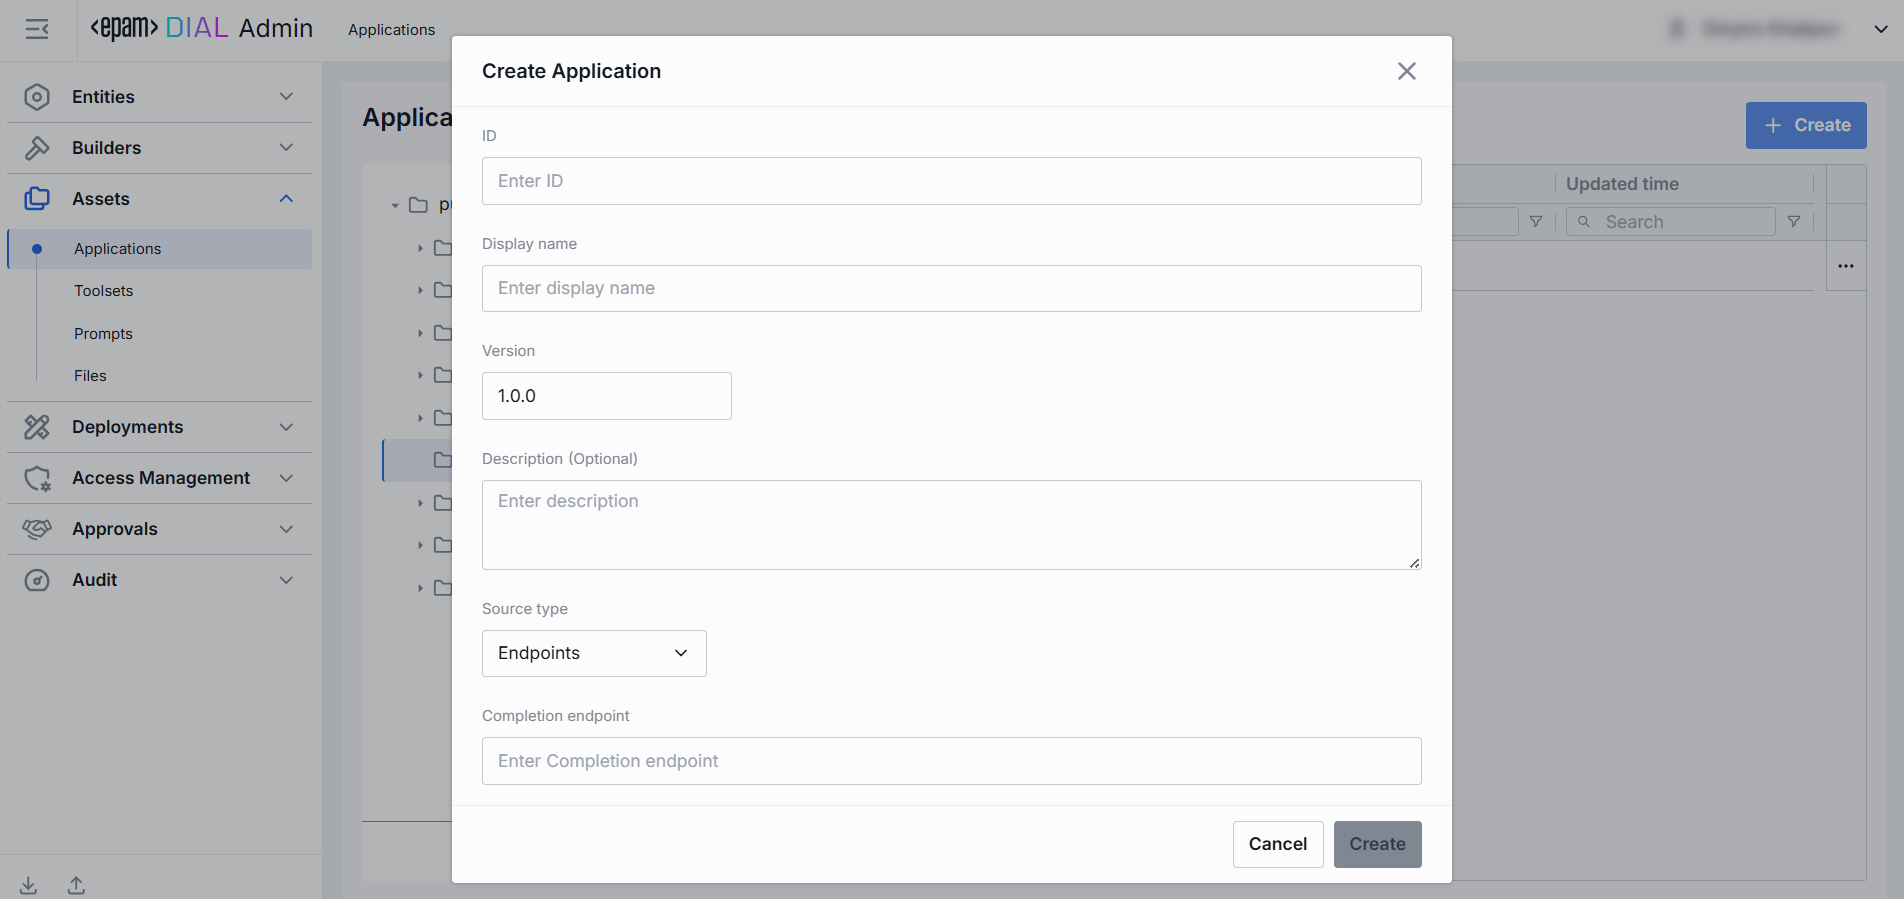
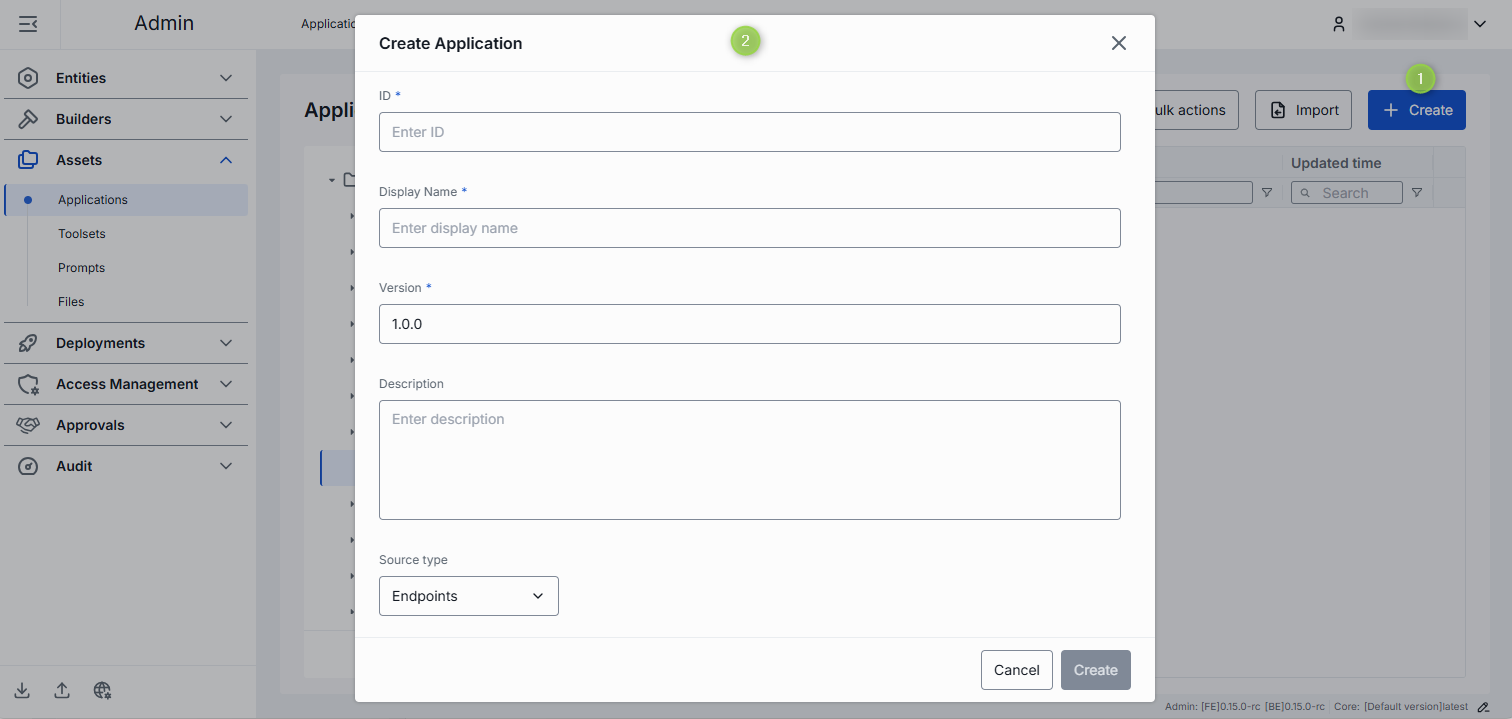
review assets

diff --git a/docs/tutorials/3.admin/assets-applications.md b/docs/tutorials/3.admin/assets-applications.md
@@ -2,7 +2,7 @@
 
 ## Introduction
 
-In DIAL, applications created by users (either using DIAL Core API or UI) are stored in a private folder of a dedicated user in the file storage and are not accessible to anyone but the application author (owner). To enable access for other users, based on explicitly defined access rules, applications can be published or manually placed in the Public folder by administrators.
+In DIAL, applications created by users (either using DIAL Core API or UI) are stored in a private folder of a dedicated user in the DIAL file storage and are not accessible to anyone but the application author (owner). To enable access for other users, application owners can publish applications or DIAL administrators can manually add applications to the Public folder, where all published resources are stored.
 
 > Refer to [Entities/Applications](/docs/tutorials/3.admin/entities-applications.md) to learn about applications in DIAL.
 
@@ -19,29 +19,31 @@ The Assets/Applications screen displays all applications located in the Public f
 
 Objects in the [Public folder](/docs/platform/3.core/2.access-control-intro.md) are arranged hierarchically, similar to a file system. 
 
-- **Root folder**: Pubic is a root folder with sub-folders. It is visible to all authorized users. If a sub-folder is not specified for the new object, it is placed in the root folder by default.
+- **Root folder**: Pubic is a root folder with sub-folders. It is visible to all authorized users. If a sub-folder is not specified for the new object being published, it is placed in the root folder by default.
 - **Sub-folders**: Objects can be placed in sub-folders for logical organization purposes - one object per sub-folder is recommended. 
 
 > **Note**, that access rules can be applied to sub-folders (manually or in publication request). You can view and manage access rules in [Folders Storage](/docs/tutorials/3.admin/access-management-folders-storage.md). The effective authorization rule for an object in a sub-folder includes restrictions applied to all parent sub-folders up to the root folder. Refer to [Tutorials](/docs/tutorials/1.developers/1.work-with-resources/0.work-with-publications.md#effective-rules) to learn about affective rules for folders.
 
 | Available Actions | Description |
 |-------------------|-------------|
-| **Create folder + import objects** | Hover over any folder to display the **+** icon. It allows importing objects into new child or sibling folders. Same flow as [Import](#import), but requires providing a new folder name. **Note** that new folders can be added only via this method or along with the publication request if a new folder is defined in it. |
+| **Create sub-folder + import objects** | Hover over any folder to display the **+** icon. It allows importing objects into new child or sibling sub-folders. Same flow as [Import](#import), but requires providing a new folder name. **Note** that new sub-folders can be added only via this method or along with the publication request if a new folder is defined in it. |
 | **Actions** | Hover over any folder to view a context menu icon with actions you can perform in relation to the selected folder.<br />**Note**, that actions performed to a folder with apps that include attached files will be applied to a related folder in [Assets/Files](/docs/tutorials/3.admin/assets-files.md). <br /> - **Rename**: Use to rename the selected folder. <br />- **Move to**: Use to select a target location in the hierarchy to move the selected folder.<br />- **Manage permissions**: Redirects to [Folder Storage](/docs/tutorials/3.admin/access-management-folders-storage.md) to manage access to the folder.<br />- **Delete**: Use to delete the folder with objects inside it.|
 
 ![ ](img/folder-actions.png)
 
 ##### Applications grid
 
-Click any folder to display applications in the applications grid.
+Click any folder to display its content in the applications grid.
 
 | Column | Description |
 |--------|-------------|
 | **ID** | Unique identifier of the application. |
 | **Version** | Published version of the application. |
 | **Author** | Username or system ID associated with the user who created or last updated this application. |
-| **Updated time** | Timestamp of the last modification of the application. Use to track changes. |
-| **Actions** | Actions you can perform on the selected application: <br /> - **Open in new tab**: Opens a new tab with application's properties, features and parameters. <br /> - **Move to another folder**: Use to select the target folder in the hierarchy to move the application.<br />- **Delete**: Use to delete the application. Alternatively you can use **Bulk Actions** in the header to remove multiple applications. |
+| **Updated time** | Timestamp of the last modification of the application. |
+| **Actions** | Actions you can perform on the selected application:<br />- **Open in new tab**: Opens the application's properties, features, and parameters in a new tab.<br />- **Move to another folder**: Select a target folder in the hierarchy to move the application.<br />- **Delete**: Remove the application. You can also use **Bulk Actions** in the toolbar to delete multiple applications at once.<br />- **Duplicate**: Create a copy of the application in one of two ways:<br />**New version**: Creates another version of the selected application. You can also quickly add a new version on the [Configuration](#configuration) screen by clicking **Create** in the **Version** dropdown.<br />**New application**: Clones the selected application as a new one. |
+
+![ ](img/assets-apps-actions.png)
 
 ## Export
 
@@ -54,10 +56,10 @@ Use **Bulk Actions** in the toolbar to download selected applications. This is u
 1. Click **Bulk Actions** button in the toolbar.
 2. Select applications by checking the boxes in each row. You can also select the version you want to export. 
 3. Click **Export** in the bottom to launch the export modal. 
-4. In the modal window select the export format: Archive or JSON.
+4. In the modal window select the export format: ZIP archive or JSON file.
 5. Click **Export** to generate export file and start downloading.
 
-![ ](img/apps_export2.png)
+    ![ ](img/apps_export2.png)
 
 ## Import
 
@@ -82,11 +84,11 @@ Use **Import** in the toolbar to upload new or update existing applications from
 
 On the main screen you can manually add new DIAL application to the public folder.
 
-> Refer to [DIAL-Native Applications](/docs/tutorials/1.developers/4.apps-development/3.enable-app.md#dial-native-applications) to learn more about native applications in DIAL.
+> **Tip**: You can quickly add new applications by duplicating existing ones. Use the **Duplicate** action in the application's context menu.
 
-Follow these steps to add a new application: 
+Follow these steps to add a new application to the Public folder: 
 
-1. Select a folder where you want to add a new application and click **+ Create** to invoke the **Create Application** modal.
+1. Select a folder where you want to add a new application and click **+ Create** in the header to invoke the **Create Application** modal.
 2. Define application's parameters
 
     | Field | Required | Description |
@@ -99,20 +101,22 @@ Follow these steps to add a new application:
     | **Completion endpoint** | Conditional | The application's chat completion endpoint that will be used by DIAL Core. Required if Source Type is **Endpoints**. |
     | **Application runner** | Conditional | Select one of the [available application runners](/docs/tutorials/3.admin/builders-application-runners.md). Required if Source Type is **Application runner**. |
 
-3. Once all required fields are filled click **Create**. The dialog closes and the new [application configuration](#configuration-screen) screen is opened. This entry will appear immediately in the listing under the selected folder once created.
+3. Once all required fields are filled click **Create**. The dialog closes and the new [application configuration](#configuration) screen is opened. This entry will appear immediately in the listing under the selected folder once created.
 
     ![](img/130.png)
 
 ## Delete
 
-There are several ways to delete an application:
+There are several ways to delete an application or a specific version of it:
 
 * Click **Delete** in the toolbar on the Configuration screen to permanently remove the selected application from your DIAL instance.
-* Use the Delete option in the application context menu
+* Use the Delete option in the application context menu.
 * Delete the related folder where the application is located.
-* Use **Bulk Actions** on the main screen to remove more than one application.
+* Use **Bulk Actions** on the main screen to delete more than one application.
 
-## Configuration Screen
+![](img/assets-delete-app.png)
+
+## Configuration
 
 Click any application to open a screen with information about the selected application and its configuration details.
 
@@ -122,37 +126,36 @@ In the Properties tab, you can see all and define selected application's basic p
 
 ![](img/123.png)
 
-##### Available Actions
+##### Available actions
 
 You can find the following action buttons in the configuration screen header:
 
 | Action | Description |
 |--------|-------------|
-| **Version**  | Version of the application. Can be selected from the dropdown to display information for different versions.           |
+| **Version**  | Version of the application. Can be selected from the dropdown to display properties for different versions of application. <br /> In the dropdown, click **Create** to add a new version of the application. |
 | **Delete** | Use to delete the selected application. |
 
-##### Fields Description
+##### Fields description
 
 | Field | Description |
 |-------|-------------|
-| **ID** | Unique identifier of the application. |
-| **Author** | Username or system ID associated with the user who created or last updated this application. |
-| **Creation Time** | Timestamp of when the application was created. |
-| **Updated Time** | Date and time when the app's configuration was last updated. |
-| **Folder Storage** | Path to the application's location in the hierarchy of folders. It allows you to move the application between folders.|
+| **ID** | Unique identifier of the application. It is read-only but includes a copy-to-clipboard button for easy reference. |
+| **Updated Time** | Timestamp of the last updated. |
+| **Creation Time** | Application creation timestamp. |
+| **Folder Storage** | Path to the application's location in the hierarchy of folders. Click to navigate to [Folders Storage](/docs/tutorials/3.admin/access-management-folders-storage.md).|
 | **Status** | Current status of the application:<br />**Valid**: application configuration is compatible with the JSON schema or the related application runner.<br />Only valid entities will be materialized into the DIAL Core configuration.<br />**Invalid**: application configuration is incompatible with the JSON schema of the related application runner. |
-| **Display Name** | Name of the application assigned by the author. It is read-only but includes a copy-to-clipboard button for easy reference. |
+| **Display Name** | Name of the application displayed on UI. |
 | **Description** | Free-text summary describing the application (e.g. tooling, supported inputs/outputs, SLAs). |
 | **Icon** | Logo to visually distinguish the app on the UI. Maximum size: 512 MB. Supported types: .jpeg, .jpg, .jpe, .png, .gif, .apng, .webp, .avif, .svg, .svgz, .bmp, .ico. Up to 1 files.|
-| **Topics** | Tags that you can assign to apps (e.g. "finance", "support"). Helps to assign categories for better navigation on UI. |
-| **Folder Storage** | Path to the application's location in the hierarchy of folders. It allows you to move the application between folders.|
+| **Topics** | Topics are semantic labels that you can assign to apps (e.g. "finance", "support") for better navigation on UI. Click to display a list of available topics. <br /> You can add your own custom topics to the list following these rules:<br />- The topic name must not exceed 255 characters.<br />- The topic name must not contain leading or trailing spaces. |
+| **Folder Storage** | Path to the application's location in the hierarchy of folders. Use **Move to** to change the application's location.|
 | **Source Type** | Source type of application.<br />- **Endpoints**: Application with this source type is a standalone application. DIAL Core communicates with such application via the explicitly-provided endpoints.<br />- **Application runner**: Application runners can be seen as application factories, allowing users to create logical instances of apps with different configurations. Application runners are based on JSON schemas, which define structure, properties and endpoints for applications. In [Builders/Application Runners](/docs/tutorials/3.admin/builders-application-runners.md) you can see all the available runners and add new ones.|
-| **Application runner** | [Application Runner](/docs/tutorials/3.admin/builders-application-runners.md) the application is based upon. Enabled and is required if Source Type = Application runner is selected. |
-| **Completion endpoint** | The application's chat completion endpoint that will be used by DIAL Core. Enabled and is required if Source Type = Endpoints is selected. |
-| **Editor URL** | URL of the application's custom builder UI. Application builder allows creating instances of apps using a [UI wizard](/docs/tutorials/0.user-guide.md#application-builder). Enabled if Source Type = Endpoints is selected. |
-| **Viewer URL** | URL of the application's custom UI. A custom UI, if enabled, will override the standard DIAL Chat UI. Enabled if Source Type = Endpoints is selected. |
-| **Attachments** | [Attachment types](/docs/tutorials/1.developers/3.chat/0.chat-objects.md#attachments) (images, files) this app can have: <br />**Available values**:<br /> **None** – attachments are not allowed. <br /> **Use all** – unrestricted types. Optionally specify max number of attachments. <br /> **Custom** – enter specific [MIME types](https://developer.mozilla.org/en-US/docs/Web/HTTP/Basics_of_HTTP/MIME_types/Common_types). Optionally specify max number of attachments. |
-| **Attachments max number** | Maximum number of input attachments. Enabled if attachment types are defined. |
+| **Application runner** | [Application Runner](/docs/tutorials/3.admin/builders-application-runners.md) the application is based upon. <br />**Note**: Enabled and is required if Source Type = Application runner is selected. |
+| **Completion endpoint** | The application's chat completion endpoint that will be used by DIAL Core. <br />**Note**: Enabled and is required if Source Type = Endpoints is selected. |
+| **Editor URL** | URL of the application's custom builder UI. Application builder allows creating instances of apps using a [UI wizard](/docs/tutorials/0.user-guide.md#application-builder).<br />**Note**:  Enabled if Source Type = Endpoints is selected. |
+| **Viewer URL** | URL of the application's custom UI. A custom UI, if enabled, will override the standard DIAL Chat UI.<br />**Note**: Enabled if Source Type = Endpoints is selected. |
+| **Attachments types** | Use to define the [attachment types](/docs/tutorials/1.developers/3.chat/0.chat-objects.md#attachments) (images, files) this app can have. <br />Available values: <br />- **No attachments**: Disables all attachment types.<br />- **All attachments types**: Allows all types of file attachments. Optionally specify max number of attachments.<br />- **Specific attachments types**: Enables the user to define/select specific [MIME types](https://developer.mozilla.org/en-US/docs/Web/HTTP/Basics_of_HTTP/MIME_types/Common_types).<br />Start typing to see suggestions or use `<type>/<subtype>` format for a manual entry. |
+| **Attachments max number** | Maximum number of input attachments. <br />**Note**: Enabled if attachment types are defined. |
 | **Defaults** | Default parameters for the application. Default parameters are applied if a request doesn't contain them in OpenAI chat/completions API call. |
 | **Forward auth token** | Select a downstream auth token to forward from the user's session (for multi-tenant downstream). |
 | **Max retry attempts** | Number of times DIAL Core will [retry](/docs/platform/3.core/5.load-balancer.md#fallbacks) a failed run (due to timeouts or 5xx errors). |
@@ -167,7 +170,8 @@ In the Features tab, you can control optional capabilities of the selected appli
 
 Use these fields to apply optional service endpoints that extend the app’s runtime behavior. 
 By providing URLs for rating, tokenization, prompt truncation, and dynamic configuration, the application can delegate cost/quota calculations, precise token counting, context-window management, and JSON-schema–driven settings to external services.
-Endpoints specified here override endpoints in [Application Runner](/docs/tutorials/3.admin/builders-application-runners.md#properties).
+
+> **Note**: If the application is created based on application runner, values provided in this section override endpoints in [Application Runner](/docs/tutorials/3.admin/builders-application-runners.md#properties).
 
 | Field | Description |
 |-------|-------------|
@@ -187,9 +191,83 @@ Enable or disable per-request options that your application accepts from clients
 | **Seed** | Enables the `seed` parameter for reproducible results. Great for testing or deterministic pipelines. Disable to ensure randomized creativity. |
 | **URL Attachments** | Enables URL references (images, docs) as attachments in API requests. Must be enabled if your workflow downloads or processes remote assets via URLs. |
 | **Folder Attachments** | Enables attachments of folders (batching multiple files). |
-| **Accessible by request key** | Indicates whether the deployment is accessible using a [per-request API key](/docs/platform/3.core/3.per-request-keys.md). |
+| **Assistant attachments in request** | Indicates whether the application supports `attachments` in `messages` from `role=assistant` in [chat completion request](https://dialx.ai/dial_api#operation/sendChatCompletionRequest). When set to `true`, DIAL Chat preserves `attachments` in `messages` in the chat completion requests to DIAL Core, instead of removing them. The feature is especially useful for apps that can generate attachments as well as take attachments in its input. |
+| **Accessible by request key** | Indicates whether the application is accessible using a [per-request API key](/docs/platform/3.core/3.per-request-keys.md). |
 | **Content parts** | Indicates whether the deployment supports requests with content parts or not. |
 | **Consent required** | Indicates whether the application requires [user consent](https://dialx.ai/dial_api#tag/User-Consent) before use. |
+| **Support comment in rate response** | Indicates whether the application supports the field `comment` in rate response payload. |
+
+### Parameters
+
+The Parameters tab within an application’s configuration allows administrators to manage application-specific parameters that influence its behavior.
+
+If the application is created based on application runner, the content of this screen is determined by the [parameters of the related application runner](/docs/tutorials/3.admin/builders-application-runners.md#parameters). If it is a standalone application with its structure and properties defined by a JSON schema, the content of this screen must conform to the app's JSON schema.
+
+> Refer to [Schema-rich Applications](/docs/platform/3.core/7.apps.md#schema-rich-applications) to learn more.
+
+![](img/assets-apps-parameters.png)
+
+### Interceptors
+
+DIAL uses Interceptors to add custom logic to in/out requests for models and apps, enabling PII obfuscation, guardrails, safety checks, and beyond. You can define Interceptors in the [Entities → Interceptors](/docs/tutorials/3.admin/entities-interceptors.md) section to add them to the processing pipeline of DIAL Core.
+
+> Refer to [Interceptors](/docs/platform/3.core/6.interceptors.md) to learn more.
+
+In the **Interceptors** tab of an application configuration, you can preview [global](/docs/tutorials/3.admin/home.md#system-properties) and interceptors defined on the [application runner level](/docs/tutorials/3.admin/builders-application-runners.md#interceptors) and also define local interceptors specific to this application.
+
+![](img/assets_apps_interceptors.png)
+
+##### Interceptors grid
+
+| Column | Description |
+|--------|-------------|
+| **Order** | Execution sequence. Interceptors run in ascending order (1 → 2 → 3...). A request will flow through each interceptor's in this order. Response interceptors are invoked in the reversed order. |
+| **Display Name** | The interceptor's alias, matching the **Name** field in its definition. |
+| **Description** | Free-text summary from the interceptor's definition, explaining its purpose. |
+| **ID** | Unique identifier of the interceptor. |
+| **Actions** | Additional interceptor-specific actions. <br /> - Open interceptor in a new tab. <br /> - [Remove](#remove) the selected interceptor from the app's configuration. |
+
+#### Add
+
+1. Click **+ Add** (in the upper-right of the interceptors grid).
+2. In the **Add Interceptors** modal, choose one or more from the grid of [defined interceptors](/docs/tutorials/3.admin/entities-interceptors.md).
+3. **Apply** to append them to the bottom of the list (are added in the same order as selected in the modal).
+
+> **TIP**: If you need a new interceptor, first create it under [Entities → Interceptors](/docs/tutorials/3.admin/entities-interceptors.md) and then revisit this tab to attach it to the application's configuration.
+
+#### Reorder
+
+1. **Drag & Drop** the handle (⋮⋮⋮⋮) to reassign the order in which interceptors are triggered.
+2. Release to reposition; order renumbers automatically.
+3. **Save** to lock-in the new execution sequence.
+
+#### Remove
+
+1. Click the actions menu in the interceptor's row.
+2. Choose **Remove** to detach it from this application.
+3. **Save** to lock-in the interceptors list
+
+### Dependencies
+
+This tab lists other entities Models or Applications that the current Application depends on. Administrators can manually add new dependencies (by selecting from available Models and Applications) or remove the existing ones.
+
+![](img/assets-apps-dependencies.png)
+
+| Column | Description |
+|--------|-------------|
+| **Entity Type** | Indication whether dependent object is an Application or a Model. |
+| **ID** | Identifier of the respective model or application. |
+| **Display Name** | Descriptive name of the dependent model or application. |
+| **Version** | Version of the dependent model. |
+| **Description** | Additional textual details about the dependent model or application. |
+| **Actions** | Allows to open the dependent object in new tab or remove it from the list of dependencies. |
+
+#### Add
+
+1. Click **+ Add** (in the upper-right of the dependencies grid).
+2. Select the type of object to add: Application or Model.
+3. In the modal window, choose model or application existing in DIAL from the grid.
+4. **Add** to append them to the dependencies grid.
 
 ### JSON Editor
 

diff --git a/docs/tutorials/3.admin/entities-applications.md b/docs/tutorials/3.admin/entities-applications.md
@@ -251,11 +251,11 @@ In the **Interceptors** tab of an application configuration, you can preview [gl
 
 | Column | Description |
 |--------|-------------|
-| **Order** | Execution sequence. Interceptors run in ascending order (1 → 2 → 3...). A request will flow through each interceptor's in this order.Response interceptors are invoked in the reversed order. |
+| **Order** | Execution sequence. Interceptors run in ascending order (1 → 2 → 3...). A request will flow through each interceptor's in this order. Response interceptors are invoked in the reversed order. |
 | **Display Name** | The interceptor's alias, matching the **Name** field in its definition. |
 | **Description** | Free-text summary from the interceptor's definition, explaining its purpose. |
 | **ID** | Unique identifier of the interceptor. |
-| **Actions** | Additional role-specific actions. <br /> Open interceptor in a new tab. <br /> [Remove](#remove-1) the selected interceptor from the model's configuration. |
+| **Actions** | Additional interceptor-specific actions. <br /> Open interceptor in a new tab. <br /> [Remove](#remove-1) the selected interceptor from the app's configuration. |
 
 #### Add
 
